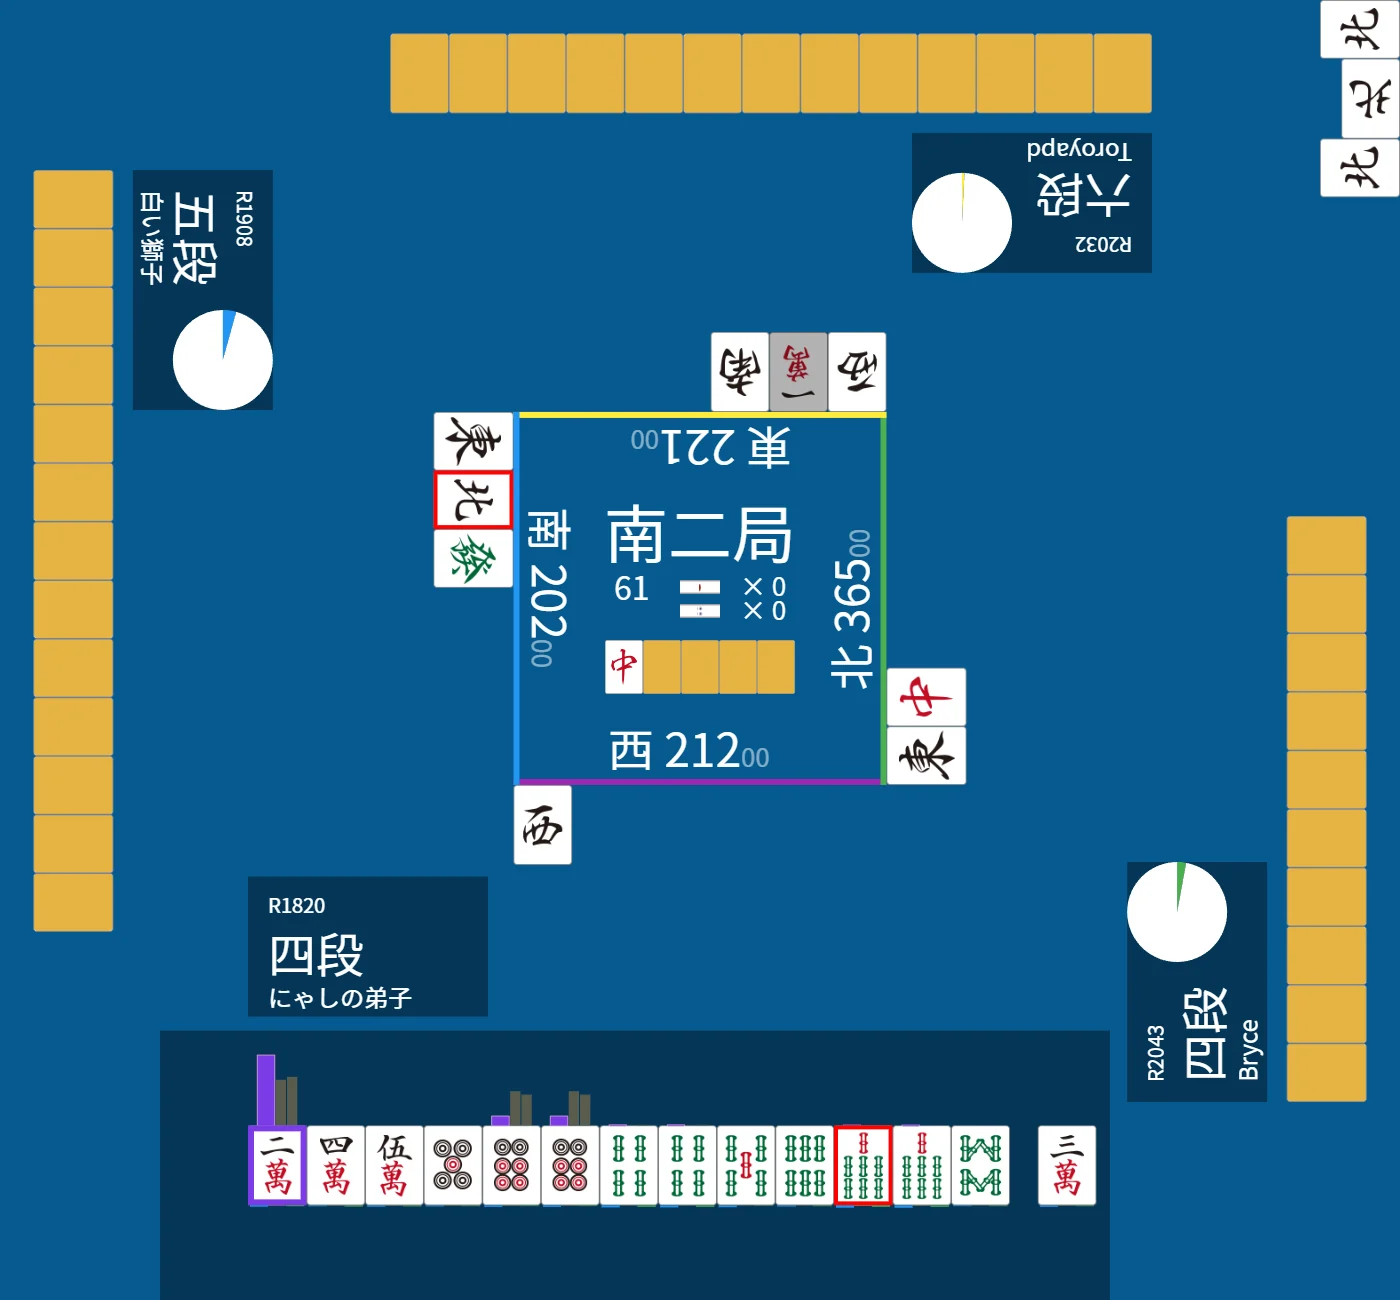
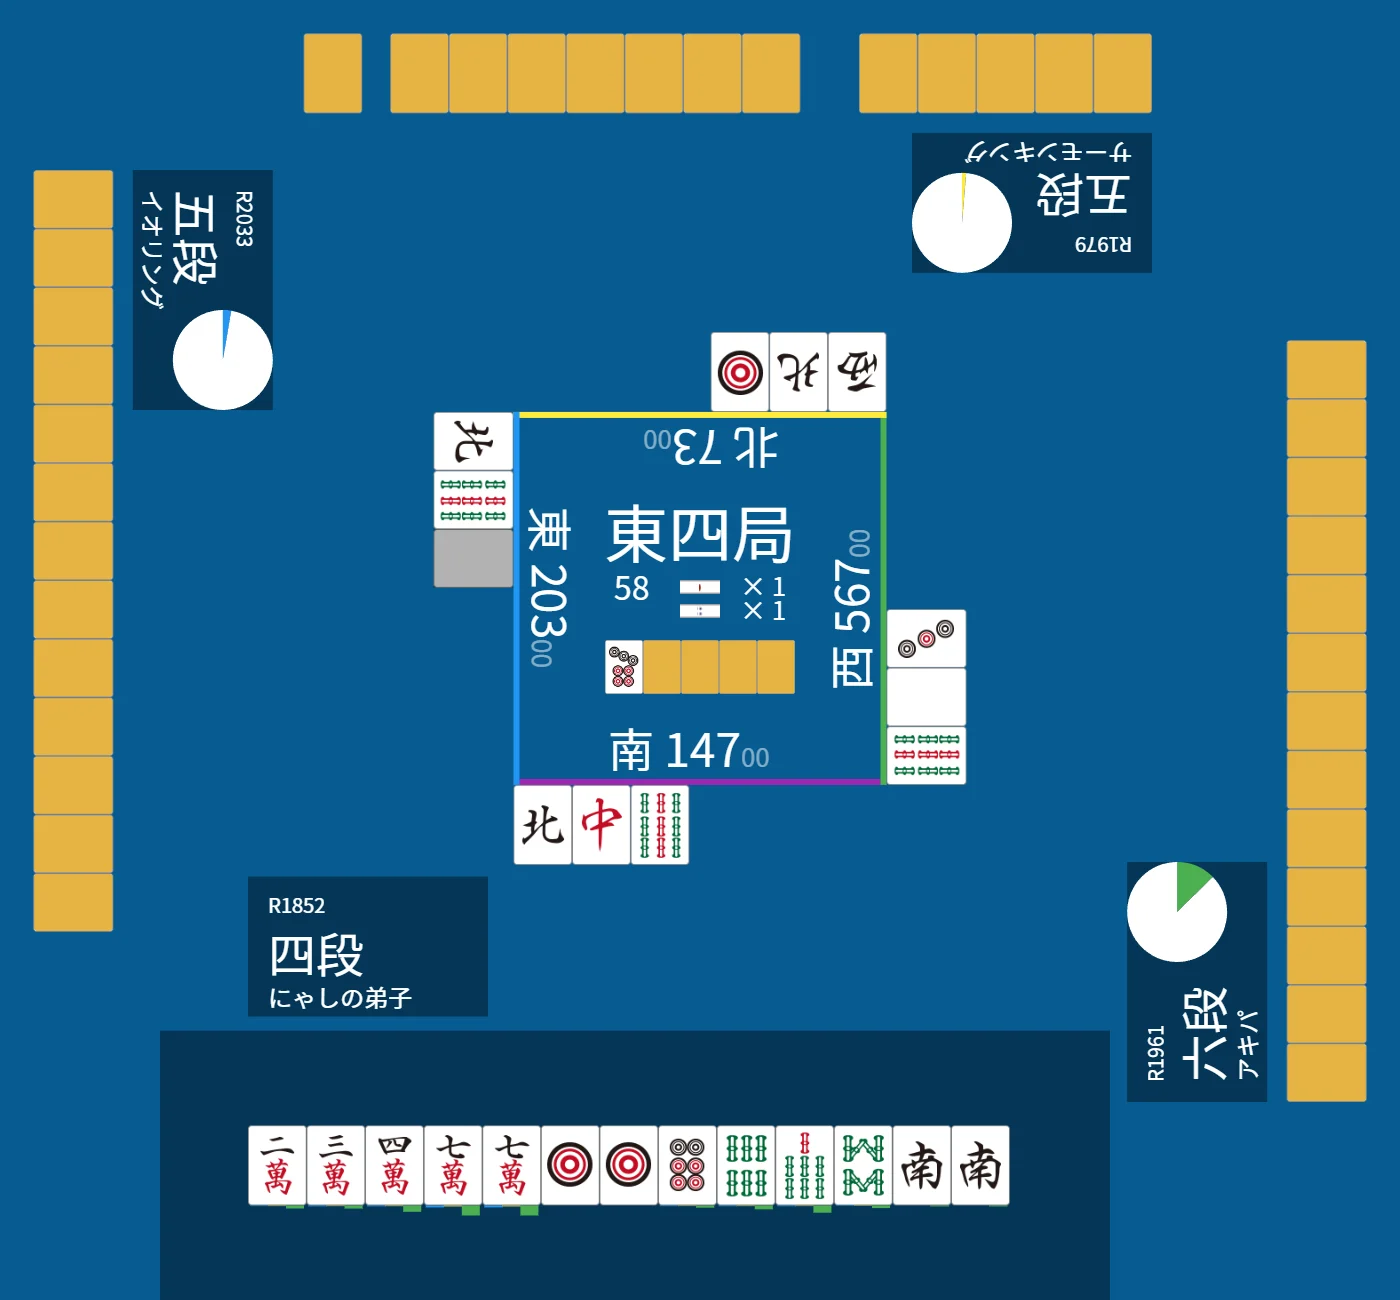
Replace problem 158 with call scene

diff --git a/public/index.html b/public/index.html
@@ -1638,7 +1638,7 @@
   <script>
     const APP_ID = "naga-nanikiru";
     const APP_BASE_PATH = "/naga-nanikiru/";
-    const APP_VERSION = 87;
+    const APP_VERSION = 88;
     const storageKey = (name) => `${APP_ID}:${name}`;
     const DEFAULT_COLLECTION_SLUG = "906571ede3684fa9b3d3e10e";
     const SCENE = {
@@ -2428,7 +2428,8 @@
         { version: 81, date: "2026-08-15", title: "ログインした端末間で回答履歴を同期するようにしました", body: "Discordログイン後、Supabaseに保存された自分の回答履歴をこの端末へ取り込み、PCと携帯で同じ履歴を確認できるようにしました。" },
         { version: 82, date: "2026-08-15", title: "問題一覧の列を揃えました", body: "直近の採点履歴の件数に左右されず、ステータス・履歴・お気に入り・ゴミ箱の位置が行ごとに揃って表示されるようにしました。" },
         { version: 83, date: "2026-08-15", title: "問題一覧の絞り込みをシンプルにしました", body: "検索窓をなくし、問題範囲とジャンルを分けて選べるようにしました。回答状態などの詳細条件は必要なときだけ開けます。" },
-        { version: APP_VERSION, date: "2026-08-15", title: "所有者専用の生徒進捗画面を追加しました", body: "所有者アカウントだけが、生徒の回答数・安全回答数・要復習数・平均回答時間を確認できるようになりました。" }
+        { version: 87, date: "2026-08-15", title: "所有者専用の生徒進捗画面を追加しました", body: "所有者アカウントだけが、生徒の回答数・安全回答数・要復習数・平均回答時間を確認できるようになりました。" },
+        { version: APP_VERSION, date: "2026-08-15", title: "問題158を副露判断の局面に差し替えました", body: "指定されたNAGA局面URLから、1pへのポン判断として問題158を更新しました。" }
       ];
       let commentNoticeStoreV65 = loadCommentNoticeStoreV65();
       let sharedCommentRowsV65 = [];
